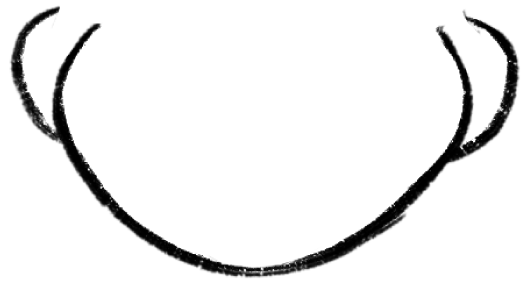
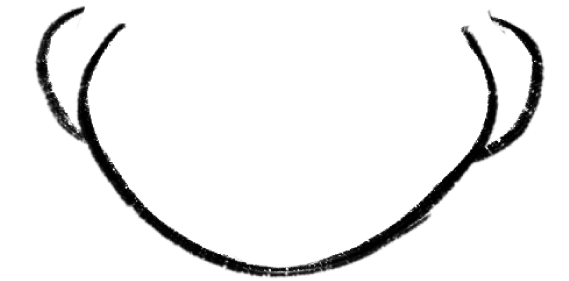
adjusted images

Changed region(s): [[0.0, 0.0, 1.0, 0.9964]]

diff --git a/mario64-audiosignal/MainWindow.xaml b/mario64-audiosignal/MainWindow.xaml
@@ -7,11 +7,11 @@
         mc:Ignorable="d"
         Title="MainWindow" Height="800" Width="600">
     <Grid>
-        <Image HorizontalAlignment="Center" Height="720" Width="588" VerticalAlignment="Center" Source="/images/nariz.png" Stretch="Fill" />
-        <Image HorizontalAlignment="Center" Height="180" Width="252" VerticalAlignment="Top"  Source="/images/boca.png" Stretch="Fill" Margin="0,520,0,0" />
-        <Image HorizontalAlignment="Center" Height="720" Width="588" VerticalAlignment="Center" Source="/images/ojos.png" Stretch="Fill"/>
-        <Image HorizontalAlignment="Center" Height="720" Width="588" VerticalAlignment="Center" Source="/images/mandibula.png" Stretch="Fill"/>
-        <Image HorizontalAlignment="Center" Height="720" Width="588" VerticalAlignment="Center" Source="/images/cabeza.png" Stretch="Fill"/>
+        <Image Name="imgNariz" HorizontalAlignment="Center" Height="196" Width="569" VerticalAlignment="Center" Source="/images/nariz.png" Stretch="Fill" Margin="0,350,0,0" />
+        <Image Name="imgBoca" HorizontalAlignment="Center" Height="180" Width="252" VerticalAlignment="Center" Source="/images/boca.png" Stretch="Fill" Margin="0,450,0,0" />
+        <Image Name="imgOjos" HorizontalAlignment="Center" Height="180" Width="576" VerticalAlignment="Center" Source="/images/ojos.png" Stretch="Fill" Margin="0,80,0,0" />
+        <Image Name="imgMandibula" HorizontalAlignment="Center" Height="281" Width="569" VerticalAlignment="Center" Source="/images/mandibula.png" Stretch="Fill" Margin="0,340,0,0" />
+        <Image Name="imgCabeza" HorizontalAlignment="Center" Height="720" Width="588" VerticalAlignment="Center" Source="/images/cabeza.png" Stretch="Fill"/>
 
 
     </Grid>
